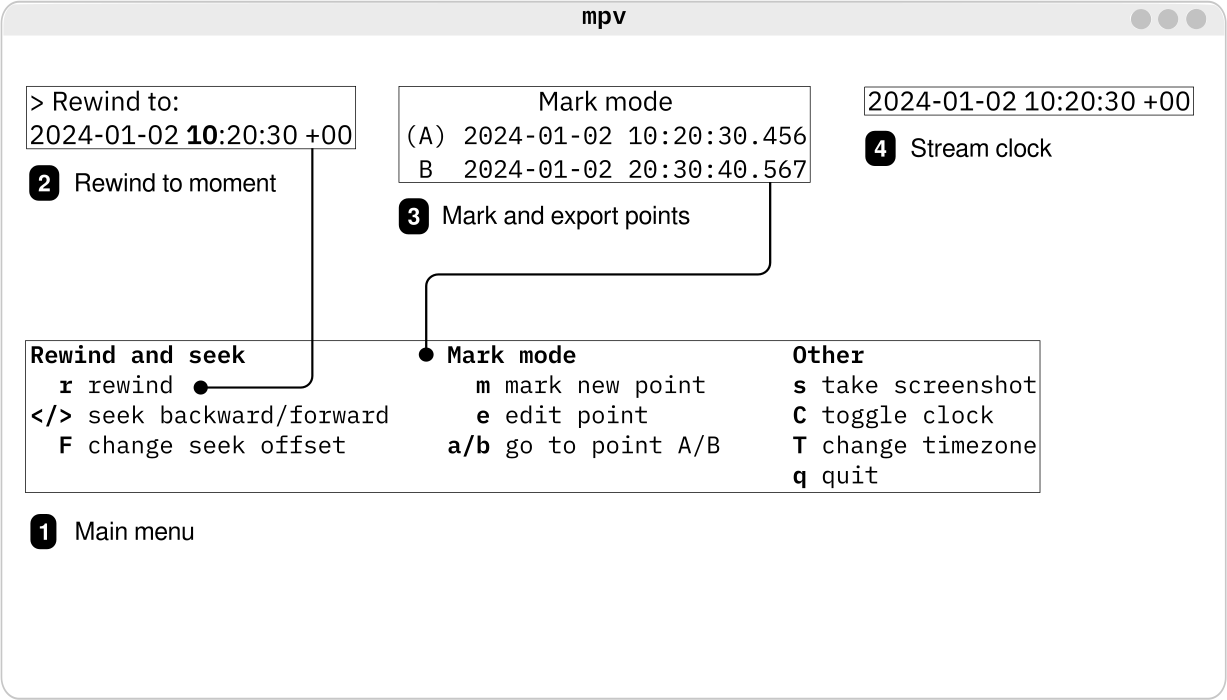
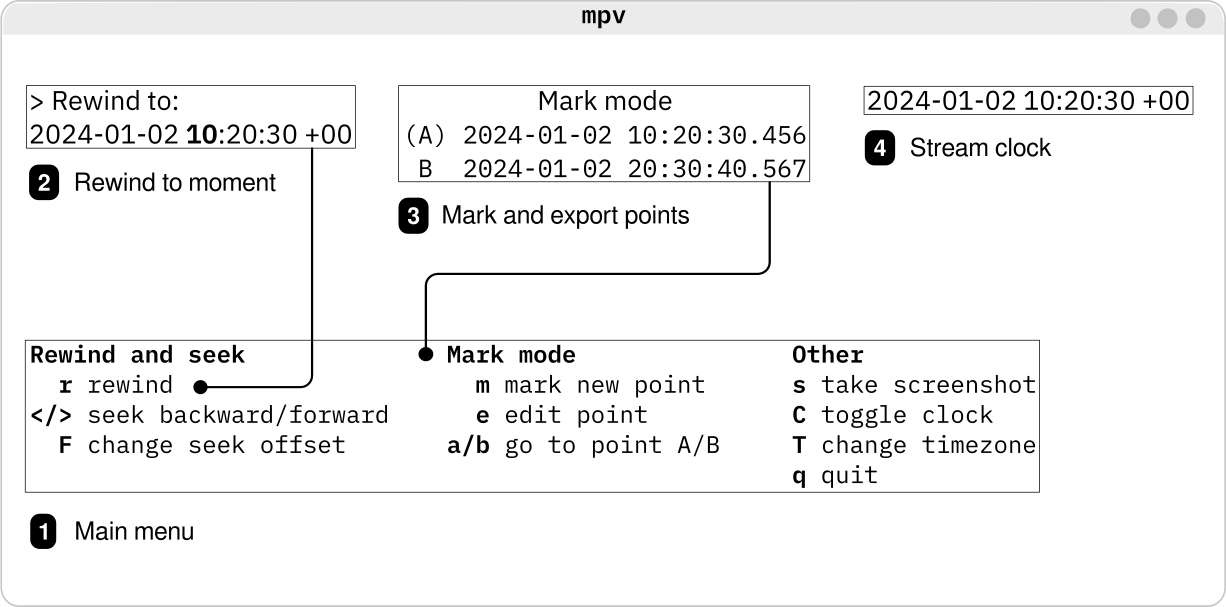
Update image of user interface

diff --git a/README.md b/README.md
@@ -6,7 +6,7 @@ player, and launches the *[ytpb](https://github.com/xymaxim/ytpb)* instance to
 communicate with it via JSON IPC. A set of script key bindings allows to play,
 mark, and export past moments of live streams.
 
-<img src="./images/mpv-ytpb-ui.png" width="80%">
+![mpv-ytpb user interface](./images/mpv-ytpb-ui.png)
 
 ## Install
 
